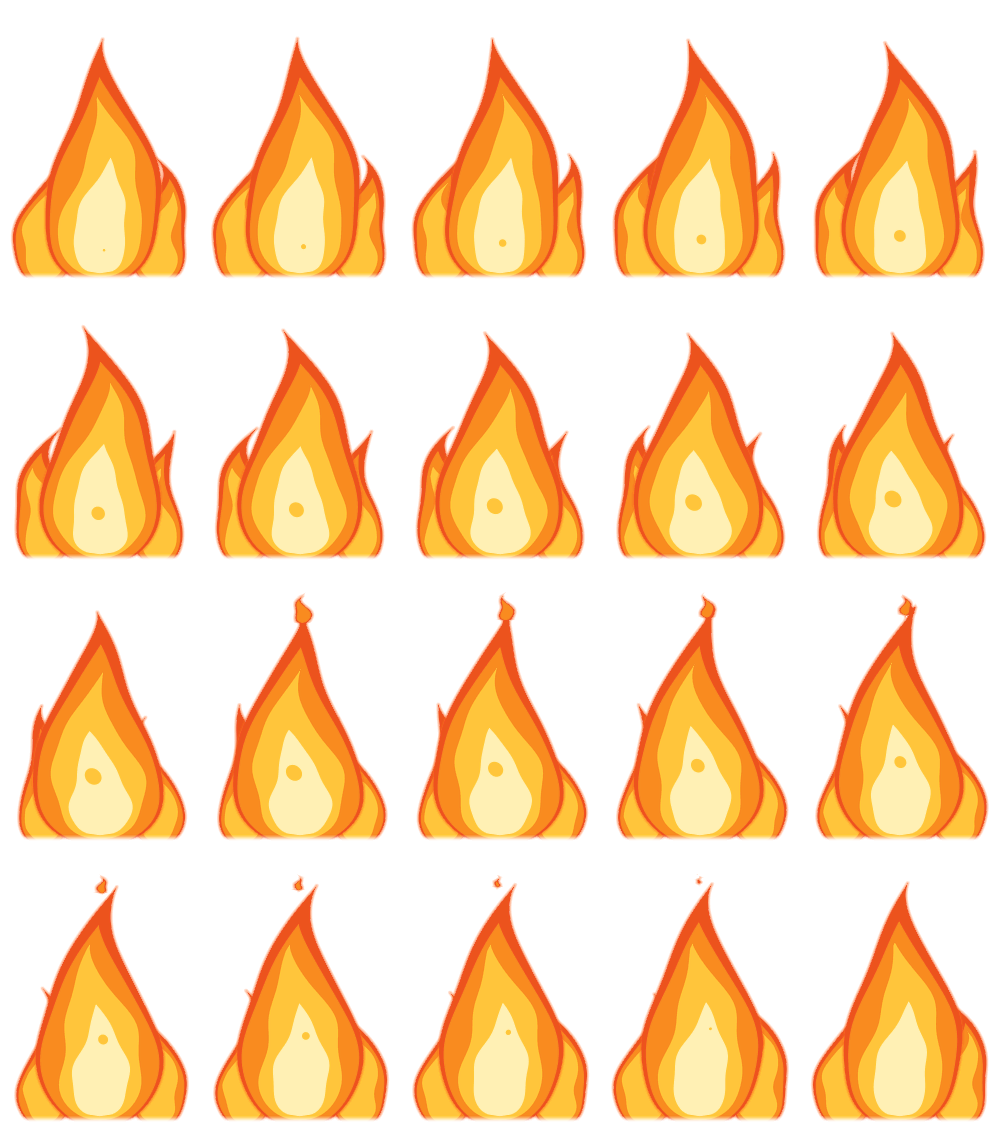
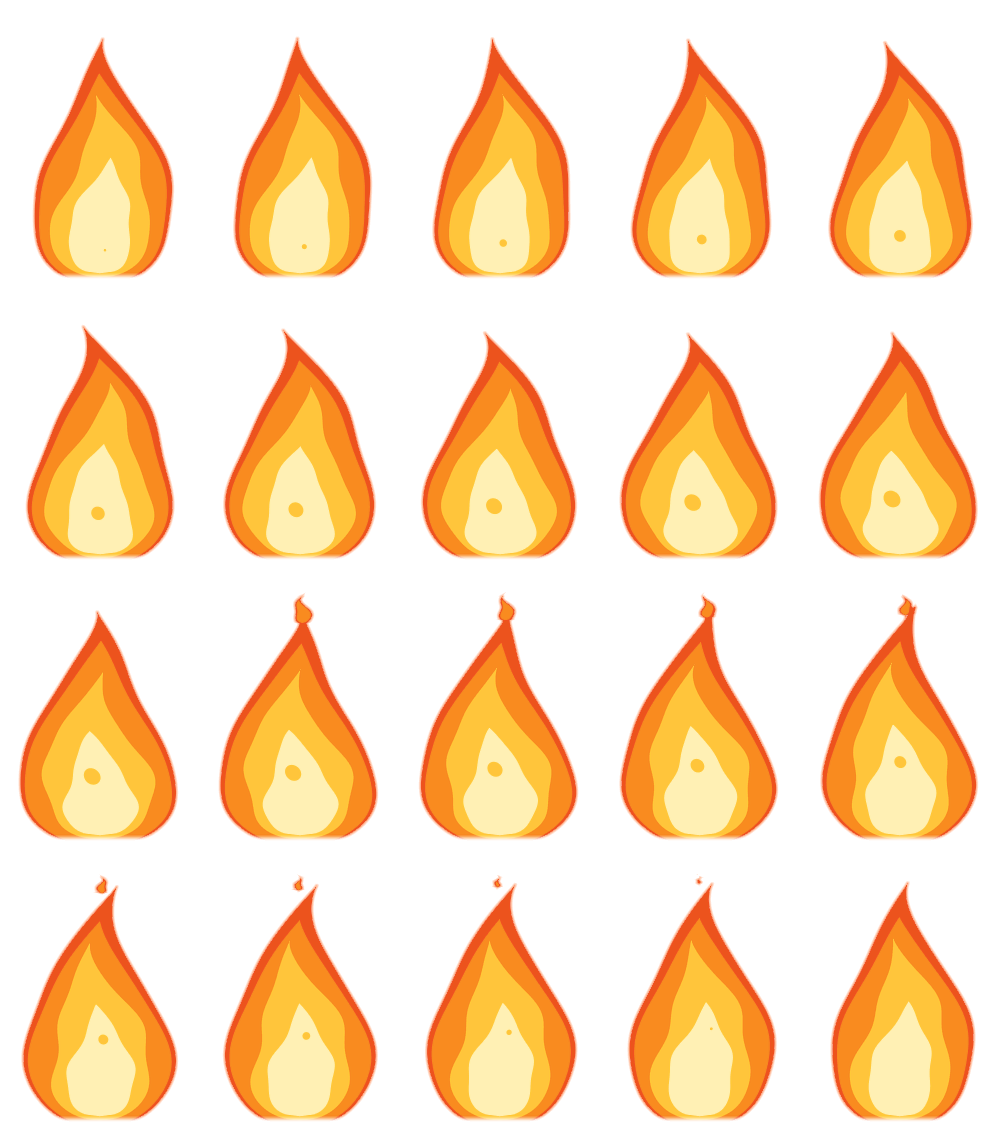
Fire: one flame at every stage, no smaller flames beside it
From the big fire up, two smaller flames stood at the main flame's sides.
Now every stage is the one flame, only bigger as the fire grows; the
blaze's blue root and the Newroz fire's gold still set them apart, and a
test holds every frame of every stage to a single flame.

Claude-Session: https://claude.ai/code/session_011eKY4xnopr5UAa1vaHj4wo

diff --git a/shared/src/art/fire-sprites.test.ts b/shared/src/art/fire-sprites.test.ts
@@ -162,6 +162,21 @@ describe('the sheets that ship', () => {
     for (const sprite of SHEETS) expect(await toneShare(join(ROOT, 'web/public/fire', sprite.file), 7), sprite.stage).toBeGreaterThan(0.92);
   });
 
+  it('is one flame at every stage, with no smaller flames beside it', async () => {
+    // across any row of any frame: the flame, and at most a drop rising off its tip
+    for (const sprite of SHEETS) {
+      const { w, h } = sprite.frame;
+      let most = 0;
+      for (const frame of await frames(sprite))
+        for (let y = 0; y < h; y++) {
+          let runs = 0;
+          for (let x = 0; x < w; x++) if (frame[y * w + x]! >= 128 && (x === 0 || frame[y * w + x - 1]! < 128)) runs++;
+          most = Math.max(most, runs);
+        }
+      expect(most, sprite.stage).toBeLessThanOrEqual(2);
+    }
+  });
+
   it('keeps every frame clear at its edges, so none bleeds into its neighbour on the sheet and nothing of the flame is cut off', async () => {
     for (const sprite of SHEETS) {
       const { w, h } = sprite.frame;

diff --git a/shared/src/art/fire-sprites.ts b/shared/src/art/fire-sprites.ts
@@ -40,7 +40,7 @@ export const FIRE_FLAME_REACH: Readonly<Record<LitStage, { from: { w: number; h:
   newroz: { from: { w: 131, h: 204 }, to: { w: 136, h: 220 } },
 };
 
-/** How far a frame reaches past the flame: across, for its sway and a big fire's side flames; up, for the drop pinching off its tip; down, for its round foot behind the logs. */
+/** How far a frame reaches past the flame: across, for its sway; up, for the drop pinching off its tip; down, for its round foot behind the logs. */
 const SIDE_ROOM = 0.22;
 const TOP_ROOM = 0.15;
 const FOOT_ROOM = 6;
